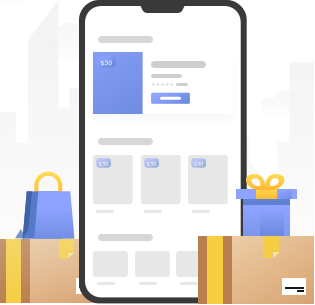
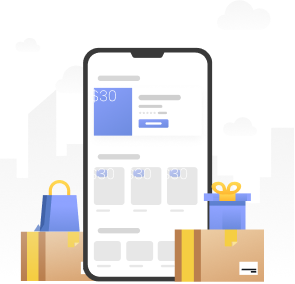
fixed button shadow, changed start-img

diff --git a/src/components/styled/StyledComponents.js b/src/components/styled/StyledComponents.js
@@ -11,6 +11,10 @@ Container = styled('div')`
   align-items: ${props => !props.column && 'center'};
   overflow-x: ${props => props.column && 'scroll'};
   overflow-y: ${props => props.column ? 'scroll' : 'hidden'};
+
+  & > img {
+    width: 100%;
+  }
 `;
 
 Section = styled('section')`
@@ -52,7 +56,7 @@ Button = styled('button')`
   padding: 0;
   color: #fff;
   display: ${props => props.inline ? "inlin-block" : "block"};
-  margin: ${props => props.inline ? "20px 0 0 0" : "20px auto"};
+  margin: ${props => props.inline ? "20px 0 0 0" : "20px auto 30px auto"};
   cursor: pointer;
  `;
 
@@ -162,7 +166,7 @@ InputWithIcon = styled('div')`
 ProductCardContainer = styled('div')`
   display: flex;
   flex-direction: ${props => !props.extended ? 'column' : 'row'};
-  justify-content: left;
+  justify-content: ${props => !props.extended ? 'space-between' : 'left'};
   ${props => props.extended ? 'min-width: 310px' : 'width: auto'};
   heigth: 170px;
   background: #FFFFFF;
@@ -170,6 +174,12 @@ ProductCardContainer = styled('div')`
   border-radius: 3px;
   margin-right: 5px;
   min-height: 205px;
+
+  & > div:last-of-type {
+    dixplay: flex;
+    flex-direction: column;
+    justify-content: space-between;
+  }
 `;
 
 ProductCardTitle = styled('h2')`
@@ -177,6 +187,7 @@ ProductCardTitle = styled('h2')`
   font-size: 18px;
   margin-top: ${props => props.extended ? '0.8rem' : '0px'};
   margin-bottom: ${props => props.extended ? '0.8rem' : '0px'};
+  padding-right: 5px;
 `;
 
 ProductCardSubtitle = styled('h3')`

diff --git a/src/components/Homepage.js b/src/components/Homepage.js
@@ -17,13 +17,14 @@ const Homepage = () => {
         <div class="main-title__icon"></div>
       </Header>
 
-      <Section >
+
         <Container auto column>
           <img src={startImg} alt="Gift Shop" class="start-image"/>
-          <Link to='/catalogue'><Button w="315px" h="50px" shadowed>EXPLORE SHOP</Button></Link>
+          <Link to='/catalogue'><Button w="280px" h="50px" shadowed>EXPLORE SHOP</Button></Link>
           <StyledLink><Link to='/'>Learn more</Link></StyledLink>
         </Container>
-      </Section>
+
+
       </Container>
     </Fragment>
   )
